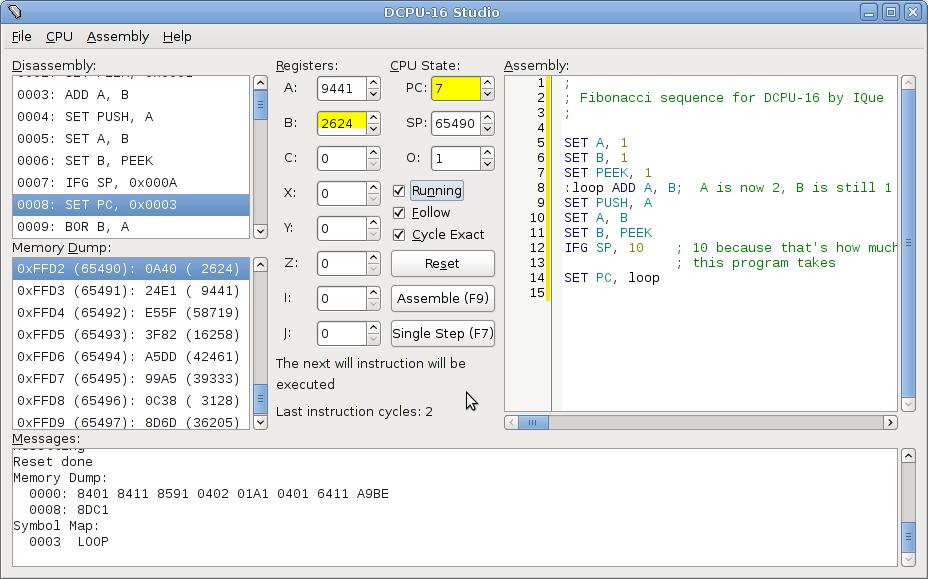
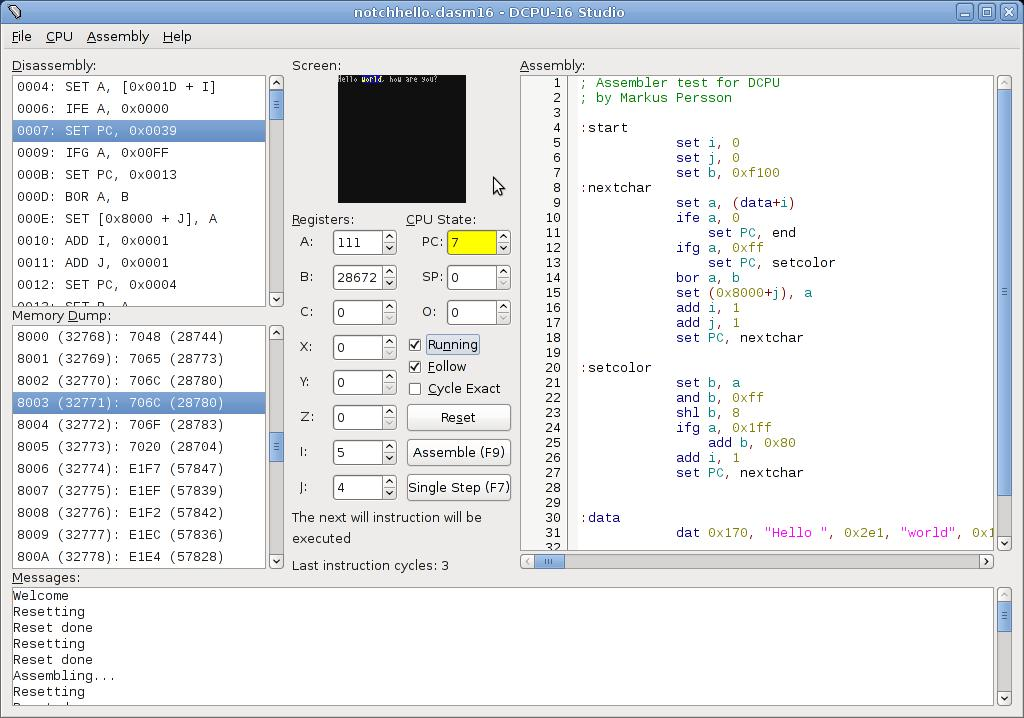
Update for version 20120406

Changed region(s): [[0.0, 0.0, 1.0, 1.0], [0.6562, 0.5285, 0.7812, 0.6839]]

diff --git a/screenshots.html b/screenshots.html
@@ -128,7 +128,7 @@
 <a class="titlink" href="development.html">Development</a>
 <a class="titlink" href="about.html">About</a>
 </div>
-    <div class="content"><div class="gallery"><table class="gallerytable"><tr class="gallerytr"><td class="gallerycell"><a class="gallerylink" href="screenshots_image_steppingx20throughx20code.jpg"><img class="gallerythumb" src="screenshots_image_steppingx20throughx20code.jpg"></a><br>Stepping Through Code</td><td class="gallerycell"><a class="gallerylink" href="screenshots_image_helpx20system.jpg"><img class="gallerythumb" src="screenshots_image_helpx20system.jpg"></a><br>Help System</td><td class="gallerycell"><a class="gallerylink" href="screenshots_image_dcpux2D16x20studiox20underx20linux78.jpg"><img class="gallerythumb" src="screenshots_image_dcpux2D16x20studiox20underx20linux78.jpg"></a><br>DCPU-16 Studio under Linux</td><td class="galleryemptycell"></td></tr></table></div></div>
+    <div class="content"><div class="gallery"><table class="gallerytable"><tr class="gallerytr"><td class="gallerycell"><a class="gallerylink" href="screenshots_image_steppingx20throughx20code.jpg"><img class="gallerythumb" src="screenshots_image_steppingx20throughx20code.jpg"></a><br>Stepping Through Code</td><td class="gallerycell"><a class="gallerylink" href="screenshots_image_screenx20support.jpg"><img class="gallerythumb" src="screenshots_image_screenx20support.jpg"></a><br>Screen Support</td><td class="gallerycell"><a class="gallerylink" href="screenshots_image_runningx20notchx27sx20hello.jpg"><img class="gallerythumb" src="screenshots_image_runningx20notchx27sx20hello.jpg"></a><br>Running Notch&#039;s Hello</td><td class="gallerycell"><a class="gallerylink" href="screenshots_image_helpx20system.jpg"><img class="gallerythumb" src="screenshots_image_helpx20system.jpg"></a><br>Help System</td></tr><tr class="gallerytr"><td class="gallerycell"><a class="gallerylink" href="screenshots_image_dcpux2D16x20studiox20underx20linux78.jpg"><img class="gallerythumb" src="screenshots_image_dcpux2D16x20studiox20underx20linux78.jpg"></a><br>DCPU-16 Studio under Linux</td><td class="galleryemptycell"></td><td class="galleryemptycell"></td><td class="galleryemptycell"></td></tr></table></div></div>
     <div class="footer">Made with <a href="http://badsector.github.com/webgroan/">WebGroan</a>.</div>
 </body>
 </html>

diff --git a/news.html b/news.html
@@ -128,7 +128,7 @@
 <a class="titlink" href="development.html">Development</a>
 <a class="titlink" href="about.html">About</a>
 </div>
-    <div class="content"><div class="newspage"><div class="newsitem"><h1 class="newsitemtitle">Initial site and release</h1><div class="newsitemdate">Posted at 5/4/2012</div><div class="newsitemtext"><p>This date marks the initial site and release! Grab the program from the Downloads :-)</p></div></div></div></div>
+    <div class="content"><div class="newspage"><div class="newsitem"><h1 class="newsitemtitle">New version with screen support</h1><div class="newsitemdate">Posted at 6/4/2012</div><div class="newsitemtext"><p>...and a bunch of other additions and bugfixes :-).</p></div></div><div class="newsitem"><h1 class="newsitemtitle">Initial site and release</h1><div class="newsitemdate">Posted at 5/4/2012</div><div class="newsitemtext"><p>This date marks the initial site and release! Grab the program from the Downloads :-)</p></div></div></div></div>
     <div class="footer">Made with <a href="http://badsector.github.com/webgroan/">WebGroan</a>.</div>
 </body>
 </html>

diff --git a/downloads.html b/downloads.html
@@ -130,8 +130,8 @@
 </div>
     <div class="content"><p>You can download the Windows binary from here:</p>
 <blockquote>
-<a href="https://github.com/downloads/badsector/dcpustud/dcpustud20120405.7z">Windows Binary</a> (527KB)</a>
-<a href="https://github.com/downloads/badsector/dcpustud/dcpustud20120405.tar.xz">Linux/i386 Binary</a> (1.2MB)</a>
+<a href="https://github.com/downloads/badsector/dcpustud/dcpustud20120406.7z">Windows Binary</a> (532KB)</a><br>
+<a href="https://github.com/downloads/badsector/dcpustud/dcpustud20120406.tar.xz">Linux/i386 Binary</a> (1.2MB)</a>
 </blockquote>
 <p>The latest source code (extracted from the Git repository) can be downloaded in <a href="https://github.com/badsector/dcpustud/zipball/master">ZIP</a> or <a href="https://github.com/badsector/dcpustud/tarball/master">TAR.GZ</a> format. If you want to work on the code, it is recommended to use Git with the following repository:</p>
 <blockquote><a href="git://github.com/badsector/dcpustud.git">git://github.com/badsector/dcpustud.git</a></blockquote>
